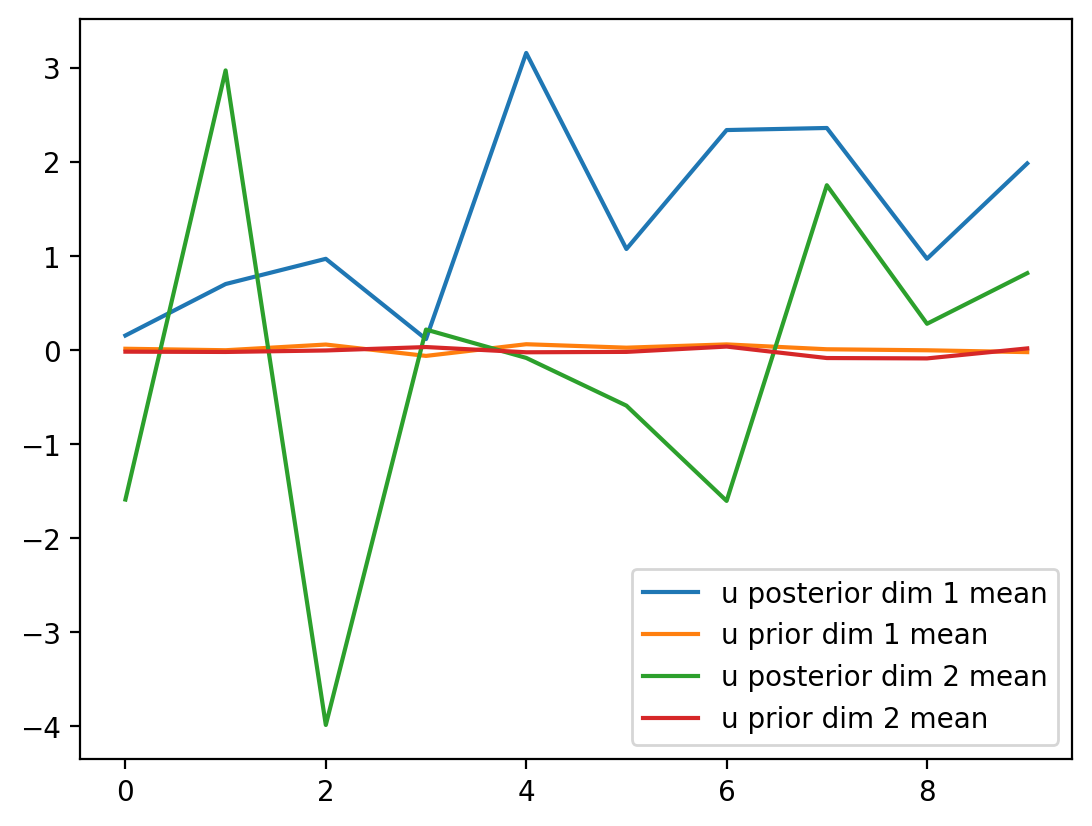
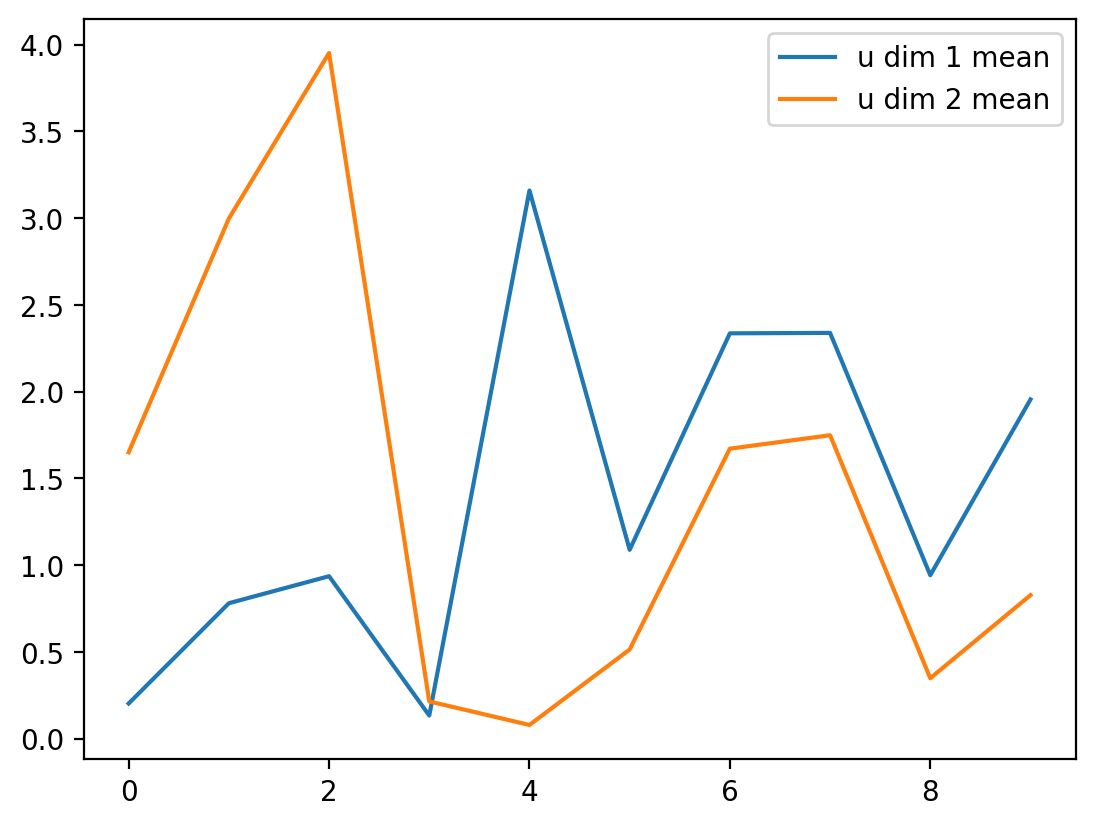
update

diff --git a/crci/mnist/result.py b/crci/mnist/result.py
@@ -163,7 +163,7 @@ plt.figure(figsize=(10, 10))
 plt.tick_params(labelsize=30)    
 plt.locator_params(axis='y', nbins=8)
 plt.scatter(zmat[:, 0], zmat[:, 1], c=tf.argmax(labels, axis=1).numpy(), s=10, cmap=plt.cm.Reds, alpha=1)
-plt.savefig('./{}/latent_z.png'.format(model_path), 
+plt.savefig('./{}/test_dataset_conditional_sampled_latent_z.png'.format(model_path), 
             dpi=200, bbox_inches="tight", pad_inches=0.1)
 plt.show()
 plt.close()
@@ -173,8 +173,33 @@ plt.figure(figsize=(10, 10))
 plt.tick_params(labelsize=30)    
 plt.locator_params(axis='y', nbins=8)
 plt.scatter(umat[:, 0], umat[:, 1], c=tf.argmax(labels, axis=1).numpy(), s=10, cmap=plt.cm.Reds, alpha=1)
-plt.savefig('./{}/latent_u.png'.format(model_path), 
+plt.savefig('./{}/test_dataset_conditional_sampled_latent_u.png'.format(model_path), 
             dpi=200, bbox_inches="tight", pad_inches=0.1)
+plt.show()
+plt.close()
+#%%
+'''prior distribution (learned)'''
+np.random.seed(1)
+samples = []
+color = []
+for i in range(model.u_prior_means.shape[0]):
+    samples.extend(np.random.multivariate_normal(mean=model.u_prior_means[i, :], 
+                                                cov=np.array([[tf.math.exp(model.u_prior_logvars[i, 0]), 0], 
+                                                            [0, tf.math.exp(model.u_prior_logvars[i, 1])]]), size=1000))
+    color.extend([i] * 1000)
+samples = np.array(samples)
+
+plt.figure(figsize=(8, 8))
+plt.tick_params(labelsize=25)   
+plt.scatter(samples[:, 0], samples[:, 1], s=9, c=color, cmap=plt.cm.Reds, alpha=1)
+plt.locator_params(axis='x', nbins=5)
+plt.locator_params(axis='y', nbins=5)
+for i in range(num_classes):
+    plt.text(model.u_prior_means[i, 0], model.u_prior_means[i, 1], "{}".format(i), fontsize=35)
+    if i in [6, 7, 8, 9]:
+        plt.text(model.u_prior_means[i, 0], model.u_prior_means[i, 1], "{}".format(i), fontsize=35, color='white')
+plt.savefig('./{}/prior_samples.png'.format(model_path),
+            bbox_inches="tight", pad_inches=0.1)
 plt.show()
 plt.close()
 #%%
@@ -187,20 +212,16 @@ for i in range(num_classes):
 test_posterior_mean = np.array(test_posterior_mean)
 test_posterior_var = np.array(test_posterior_var)
 #%%
-plt.plot(test_posterior_mean[:, 0], label="u posterior dim 1 mean")
-plt.plot(model.u_prior_means[:, 0], label="u prior dim 1 mean")
-plt.plot(test_posterior_mean[:, 1], label="u posterior dim 2 mean")
-plt.plot(model.u_prior_means[:, 1], label="u prior dim 2 mean")
+plt.plot(tf.math.abs(test_posterior_mean[:, 0] - model.u_prior_means[:, 0]), label="u dim 1 mean")
+plt.plot(tf.math.abs(test_posterior_mean[:, 1] - model.u_prior_means[:, 1]), label="u dim 2 mean")
 plt.legend()
 plt.savefig('./{}/u_prior_posterior_mean_gap.png'.format(model_path),
                 dpi=200, bbox_inches="tight", pad_inches=0.1)
 plt.show()
 plt.close()
 #%%
-plt.plot(test_posterior_var[:, 0], label="u posterior dim 1 var")
-plt.plot(tf.math.exp(model.u_prior_logvars)[:, 0], label="u prior dim 1 var")
-plt.plot(test_posterior_var[:, 1], label="u posterior dim 2 var")
-plt.plot(tf.math.exp(model.u_prior_logvars)[:, 1], label="u prior dim 2 var")
+plt.plot(tf.math.abs(test_posterior_var[:, 0] - tf.math.exp(model.u_prior_logvars)[:, 0]), label="u dim 1 var")
+plt.plot(tf.math.abs(test_posterior_var[:, 1] - tf.math.exp(model.u_prior_logvars)[:, 1]), label="u dim 2 var")
 plt.legend()
 plt.savefig('./{}/u_prior_posterior_var_gap.png'.format(model_path),
                 dpi=200, bbox_inches="tight", pad_inches=0.1)
@@ -225,7 +246,7 @@ for k in range(num_classes):
         plt.imshow(grid_output[i].reshape(28, 28), cmap='gray_r')    
         plt.axis('off')
         plt.tight_layout() 
-    plt.savefig('./{}/recon_zgrid_umean{}.png'.format(model_path, k),
+    plt.savefig('./{}/recon_z_grid_u{}_priormean.png'.format(model_path, k),
                 dpi=200, bbox_inches="tight", pad_inches=0.1)
     plt.show()
     plt.close()
@@ -247,7 +268,7 @@ for i in range(len(grid)):
     plt.imshow(grid_output[i].reshape(28, 28), cmap='gray_r')    
     plt.axis('off')
     plt.tight_layout() 
-plt.savefig('./{}/recon_zmean_ugrid.png'.format(model_path, k),
+plt.savefig('./{}/recon_z_priormean_u_grid.png'.format(model_path, k),
             dpi=200, bbox_inches="tight", pad_inches=0.1)
 plt.show()
 plt.close()
